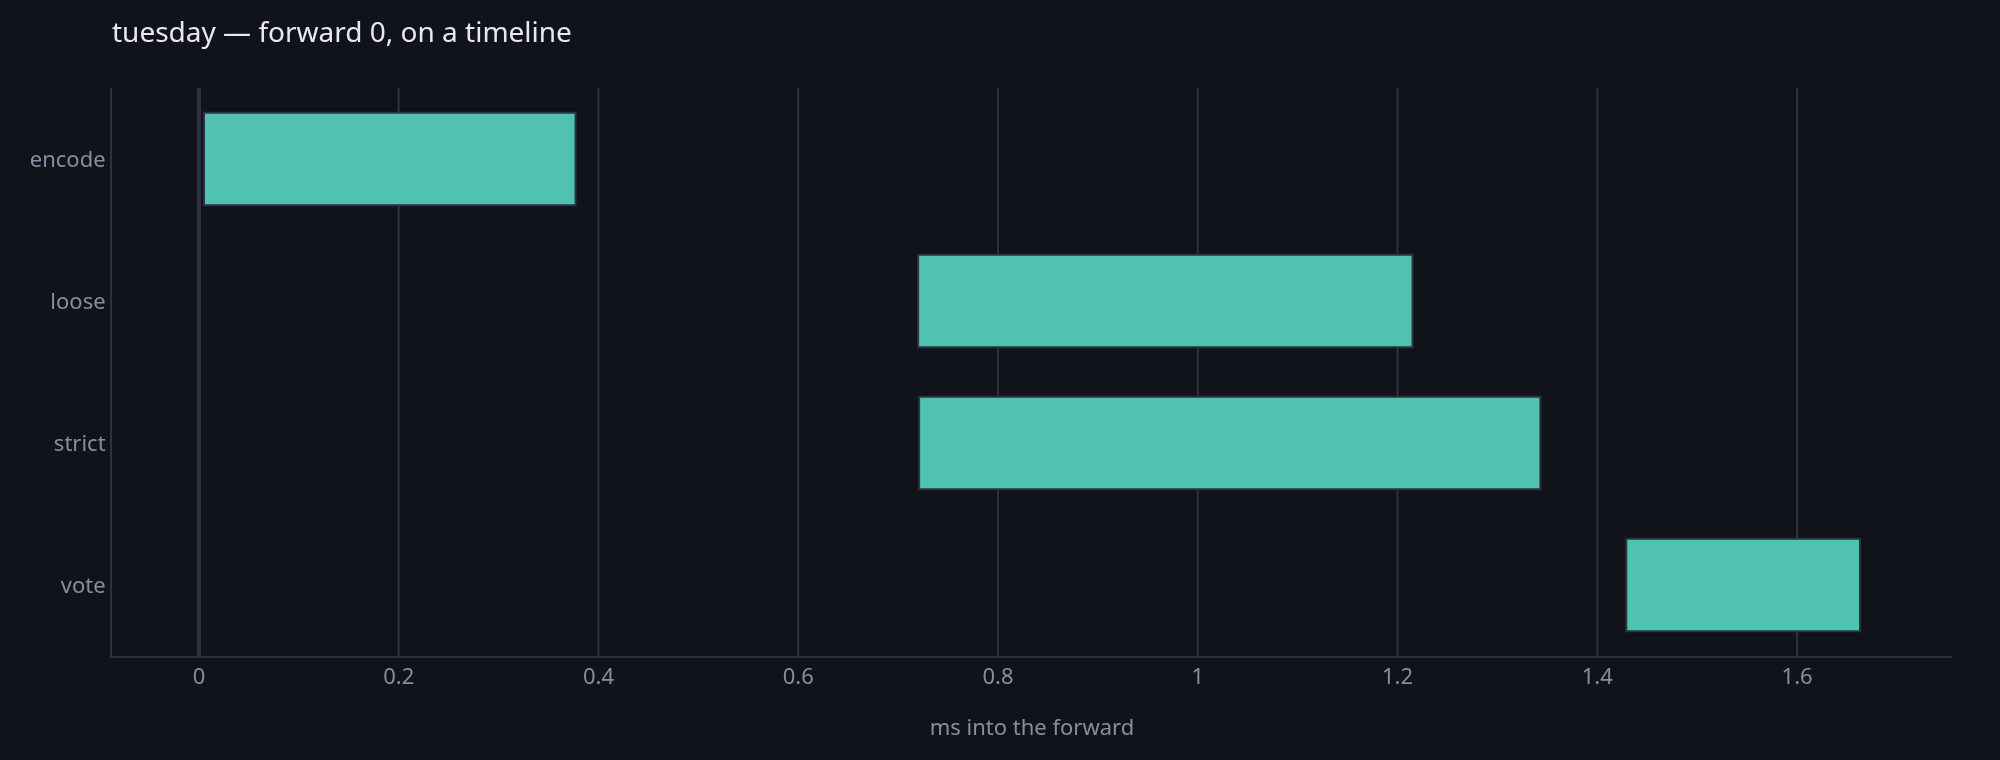
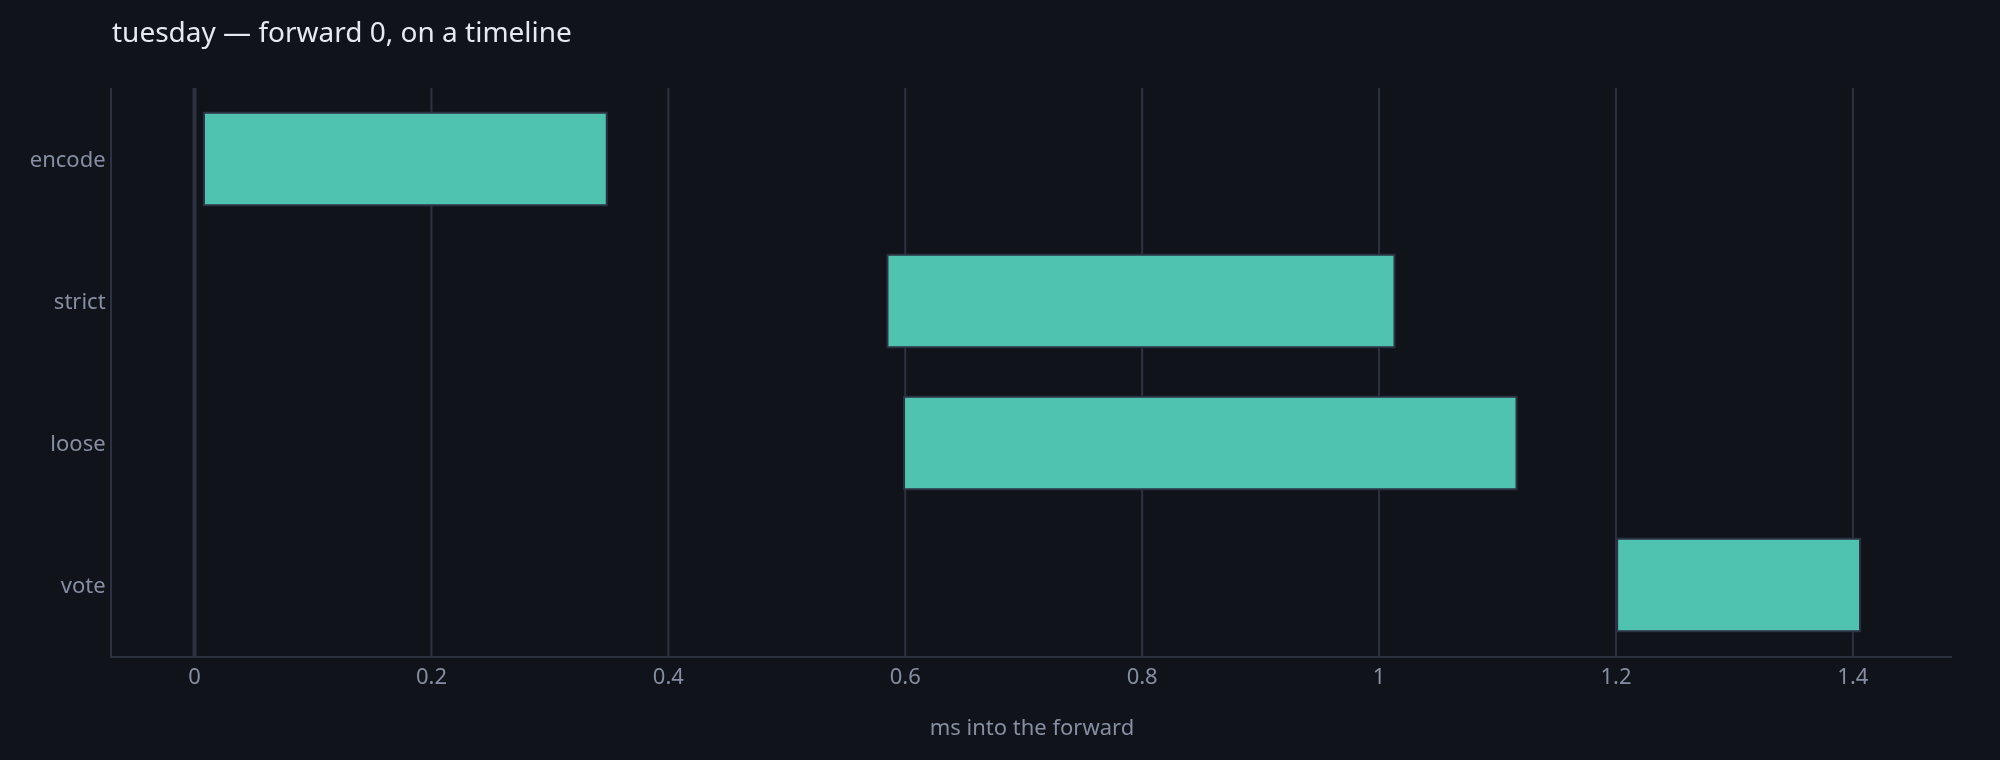
docs: the architecture rules, shown — and the one case the trace loses
`Opening a node up` and `The rules that make an architecture readable` were
about thirty lines of prose about silhouettes, `xN` frames, plates and shape
labels, with nothing drawn. Three figures now, and each one is there for a rule
the sentence beside it states:

- **A convolutional trunk, a transformer stack and a narrowing head.** The
  parallelogram, the capsule, the pointed non-linearity, and the head tapering
  `64 → 16 → 1` — which is the only thing that makes a bottleneck a picture.
  `BatchNorm1d` keeps `ch` and `len` from the layer above it, exactly as the
  page claims.
- **The same stack at `depth=2`**, where `TransformerEncoderLayer ×4` stops
  being one box: the count goes on a frame around the layers and is said once,
  instead of eight boxes each saying `×4`.
- **An attention block with four plates behind it**, which is the lanes rule.

**And a gap the drawing found.** There is no attention in the opened stack:
`architecture` traces an explicit `nn.MultiheadAttention` — `kind_of` answers
`attention` — but the self-attention inside torch's fused
`nn.TransformerEncoderLayer` is not surfaced at any `depth=`, so what comes back
is that block's norms and its feed-forward. Checked at depth 2, 3 and 4; the
same seven layers each time. The page says so in a `:::caution` rather than
quietly showing a transformer with no attention in it, because a reader who
knows what is in one would notice and trust the rest less.
[…]

diff --git a/docs/scripts/figures.py b/docs/scripts/figures.py
@@ -342,7 +342,108 @@ def health(into: dict[str, bytes]) -> None:
     print(f"  diagnosed: {diagnose(store, run='sigmoids')}")
 
 
-GROUPS = {"graph": a_graph, "study": a_study, "run": a_run, "health": health}
+# ── A node opened up ─────────────────────────────────────────────────────────
+
+
+def an_architecture(into: dict[str, bytes]) -> None:
+    """Three nodes, each a real architecture, drawn inside their own boxes.
+
+    Chosen to put every drawing rule on one picture rather than to be a good
+    model: a convolutional trunk for the silhouettes and the `ch`/`len` shape
+    names, a transformer stack for the `xN` frame and the plates behind
+    attention heads, and a head that narrows so the taper has something to say.
+    """
+    import torch
+    from torch import nn
+
+    import somatize.torch  # noqa: F401
+    from somatize import Graph, Node, Opaque
+    from somatize.torch import architecture
+
+    torch.manual_seed(0)
+
+    class Trunk(Node):
+        def __init__(self):
+            self.net = nn.Sequential(
+                nn.Conv1d(1, 32, 5, padding=2), nn.BatchNorm1d(32), nn.ReLU(),
+                nn.Conv1d(32, 64, 5, padding=2), nn.BatchNorm1d(64), nn.ReLU(),
+            )
+
+        def forward(self, x, ctx):
+            return Opaque(self.net(x))
+
+        def parameters(self):
+            return list(self.net.parameters())
+
+    class Encode(Node):
+        def __init__(self):
+            one = nn.TransformerEncoderLayer(
+                d_model=64, nhead=4, dim_feedforward=128, batch_first=True
+            )
+            self.net = nn.TransformerEncoder(one, num_layers=4)
+
+        def forward(self, x, ctx):
+            return Opaque(self.net(x.transpose(1, 2)))
+
+        def parameters(self):
+            return list(self.net.parameters())
+
+    class Head(Node):
+        def __init__(self):
+            self.net = nn.Sequential(nn.Linear(64, 16), nn.ReLU(), nn.Linear(16, 1))
+
+        def forward(self, x, ctx):
+            return Opaque(self.net(x.mean(1)))
+
+        def parameters(self):
+            return list(self.net.parameters())
+
+    g = Graph.somatize(
+        Trunk().named("trunk") >> Encode().named("encode") >> Head().named("head")
+    )
+    # Wrapped, because a bare tensor does not cross an edge — the same rule as
+    # `Opaque` on the way out, seen from the caller's side.
+    example = Opaque(torch.randn(4, 1, 32))
+    inside = architecture(g, example)
+    print(f"  architecture traced: {sorted(inside)}")
+    drawn(g.figure(inside=inside), "architecture", into, width=980, height=900)
+
+    # The same graph with the composite opened. `depth=` is the whole of the
+    # difference: a `TransformerEncoderLayer` everybody recognises is one box
+    # until somebody asks, and then it is the `xN` frame and the plates.
+    deeper = architecture(g, example, depth=2)
+    drawn(g.figure(inside=deeper), "architecture-opened", into, width=980, height=1200)
+
+    # The plates, which need an attention written out rather than torch's fused
+    # `TransformerEncoderLayer`: the self-attention inside that one is not
+    # surfaced by the trace at any depth, so the figure above has the block's
+    # norms and feed-forward and no attention at all. Measured, not assumed —
+    # `kind_of(nn.MultiheadAttention(...))` answers `attention`, and an explicit
+    # one draws with its heads behind it.
+    class Block(Node):
+        def __init__(self):
+            self.att = nn.MultiheadAttention(64, 4, batch_first=True)
+            self.norm = nn.LayerNorm(64)
+            self.ff = nn.Sequential(nn.Linear(64, 128), nn.GELU(), nn.Linear(128, 64))
+
+        def forward(self, x, ctx):
+            y, _ = self.att(x, x, x)
+            y = self.norm(y + x)
+            return Opaque(self.norm(y + self.ff(y)))
+
+        def parameters(self):
+            return [
+                *self.att.parameters(), *self.norm.parameters(), *self.ff.parameters()
+            ]
+
+    b = Graph.somatize(Block().named("block"))
+    drawn(
+        b.figure(inside=architecture(b, Opaque(torch.randn(4, 32, 64)))),
+        "architecture-attention", into, width=880, height=700,
+    )
+
+
+GROUPS = {"graph": a_graph, "architecture": an_architecture, "study": a_study, "run": a_run, "health": health}
 
 
 def main() -> None:

diff --git a/docs/src/content/docs/looking/the-graph-drawn.md b/docs/src/content/docs/looking/the-graph-drawn.md
@@ -98,6 +98,14 @@ own `forward`.
 and a `Remote` already are — and lays the inside out by what feeds what, so a
 skip runs down a gutter and enters from the side.
 
+![Three nodes, each opened up](../../../assets/figures/architecture.png)
+
+Three nodes and three architectures. The shapes are doing the work: a
+convolution is a parallelogram, a normalisation a capsule, a non-linearity is
+pointed, and the head's two `Linear`s taper because they narrow — `64 → 16 →
+1`, which is the only thing that makes a bottleneck a picture rather than a
+number you have to go and look up.
+
 ## The rules that make an architecture readable
 
 **A kind, not a class name, decides the silhouette.** A convolution is a
@@ -108,15 +116,31 @@ kind is guessed **by role**, so a class the table has never heard of whose name
 ends in `Norm` is a normalisation — a guess, and a good one, because the
 alternative is calling half of everybody's models `other`.
 
-**A composite everybody recognises is one box**, and `depth=` opens it.
+**A composite everybody recognises is one box**, and `depth=` opens it. Above,
+`TransformerEncoderLayer ×4` is a single box that says what is in it. Asked to
+open:
+
+![The same stack with depth=2](../../../assets/figures/architecture-opened.png)
 
 **Blocks that are the same block collapse to `×N`** — and when the block is
 more than one layer, that `×N` goes on a **frame around them** rather than on
-each of them. Four encoder layers opened up are eight boxes each saying `×4`,
-which is the count said eight times and the block said none.
+each of them. That is the dashed frame: the count is said once and the block is
+said once. Four encoder layers written out would be eight boxes each saying
+`×4`, which is the count said eight times and the block said none.
+
+:::caution[One thing that figure is missing, and it is not the drawing]
+There is no attention in it. `architecture` traces an explicit
+`nn.MultiheadAttention` — `kind_of` answers `attention` for one — but the
+self-attention **inside torch's fused `nn.TransformerEncoderLayer`** is not
+surfaced at any `depth=`, so what you get is that block's norms and its
+feed-forward. Written out rather than fused, it draws:
+:::
+
+![An attention block with its heads behind it](../../../assets/figures/architecture-attention.png)
 
 **Identical lanes running at once get plates behind them**, never separate
-boxes. The heads of an attention block and the groups of a convolution are one
+boxes — the four plates stacked behind `MultiheadAttention · 4 heads` above.
+The heads of an attention block and the groups of a convolution are one
 projection in torch; four of them wired side by side would be a graph nobody
 built.
 

diff --git a/docs/src/content/docs/searching/a-study.md b/docs/src/content/docs/searching/a-study.md
@@ -156,7 +156,14 @@ coordinates(store, space, study="spam")  # parallel coordinates
 `importance` is **Spearman's ρ**, which the original names as fANOVA-deferred
 and never wrote. `coordinates` is hand-drawn out of splines because plotly's
 `Parcoords` only draws straight segments; it trades brushing for a trial
-reading as one curve.
+reading as one curve:
+
+![Every trial as one curve across the knobs](../../../assets/figures/study-coordinates.png)
+
+That is thirty trials over the space above. What it answers is *where the good
+ones live*, which is a different question from `influence`'s *which knob
+mattered* — see [a search end to end](/soma/start/a-search/) for the same study
+with its table and its ρ beside this.
 
 In all three, **pruned and finished are never ranked together** — a pruned
 trial's score was measured after fewer epochs, and it is not comparable.

diff --git a/docs/src/content/docs/running/the-plan.md b/docs/src/content/docs/running/the-plan.md
@@ -130,6 +130,12 @@ n.edge("b", "d")
 n.figure()
 ```
 
+![The N, drawn](../../../assets/figures/graph-the-n.png)
+
+`a` and `b` share a box because they run at the same time, and the arrows —
+not the box — say that `c` waits for `a` while `d` waits for both. There is no
+nesting to read, and the figure does not invent any.
+
 ## Then it is cut a second time
 
 ```rust
